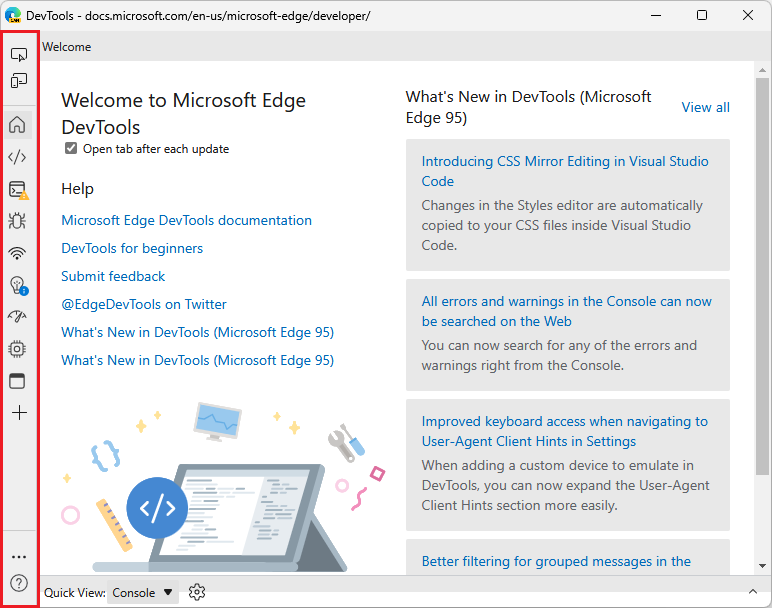
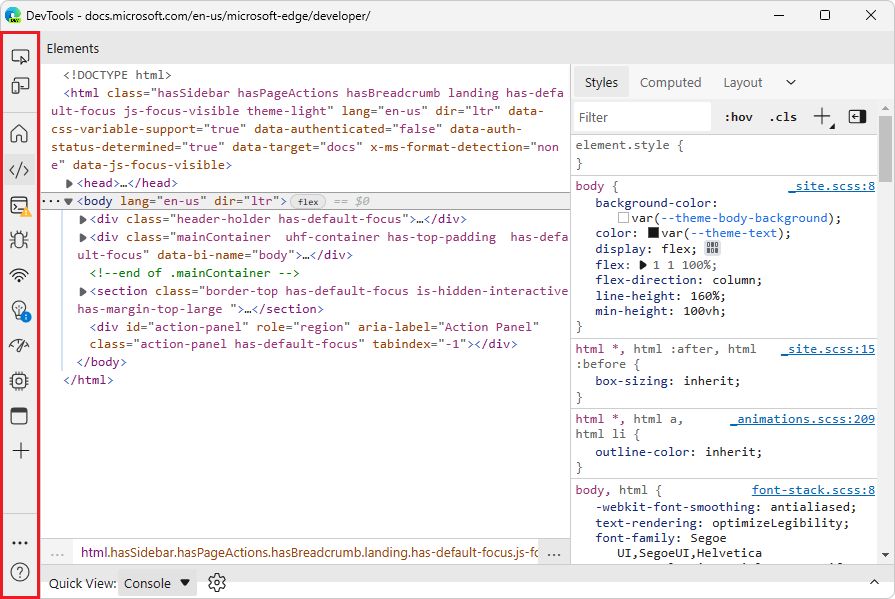
Testing No Shadows, Snipping Tool, transparent rounded corners

diff --git a/microsoft-edge/devtools-guide-chromium/whats-new/2021/11/devtools.md b/microsoft-edge/devtools-guide-chromium/whats-new/2021/11/devtools.md
@@ -31,6 +31,10 @@ This UI is still in development and may change in future versions of Microsoft E
 
 :::image type="content" source="../../media/2021/11/focus-mode.png" alt-text="Focus Mode, including the Activity Bar.":::
 
+Screenshot version 2:
+
+:::image type="content" source="../../media/2021/11/focus-mode-2.png" alt-text="Focus Mode, including the Activity Bar.":::
+
 See also:
 *  [Focus Mode](../../../experimental-features/index.md#focus-mode) in _Experimental features_.
 *  [DevTools: Focus Mode UI](https://github.com/MicrosoftEdge/MSEdgeExplainers/blob/main/DevTools/FocusMode/explainer.md) in the `MSEdgeExplainers` repo.
